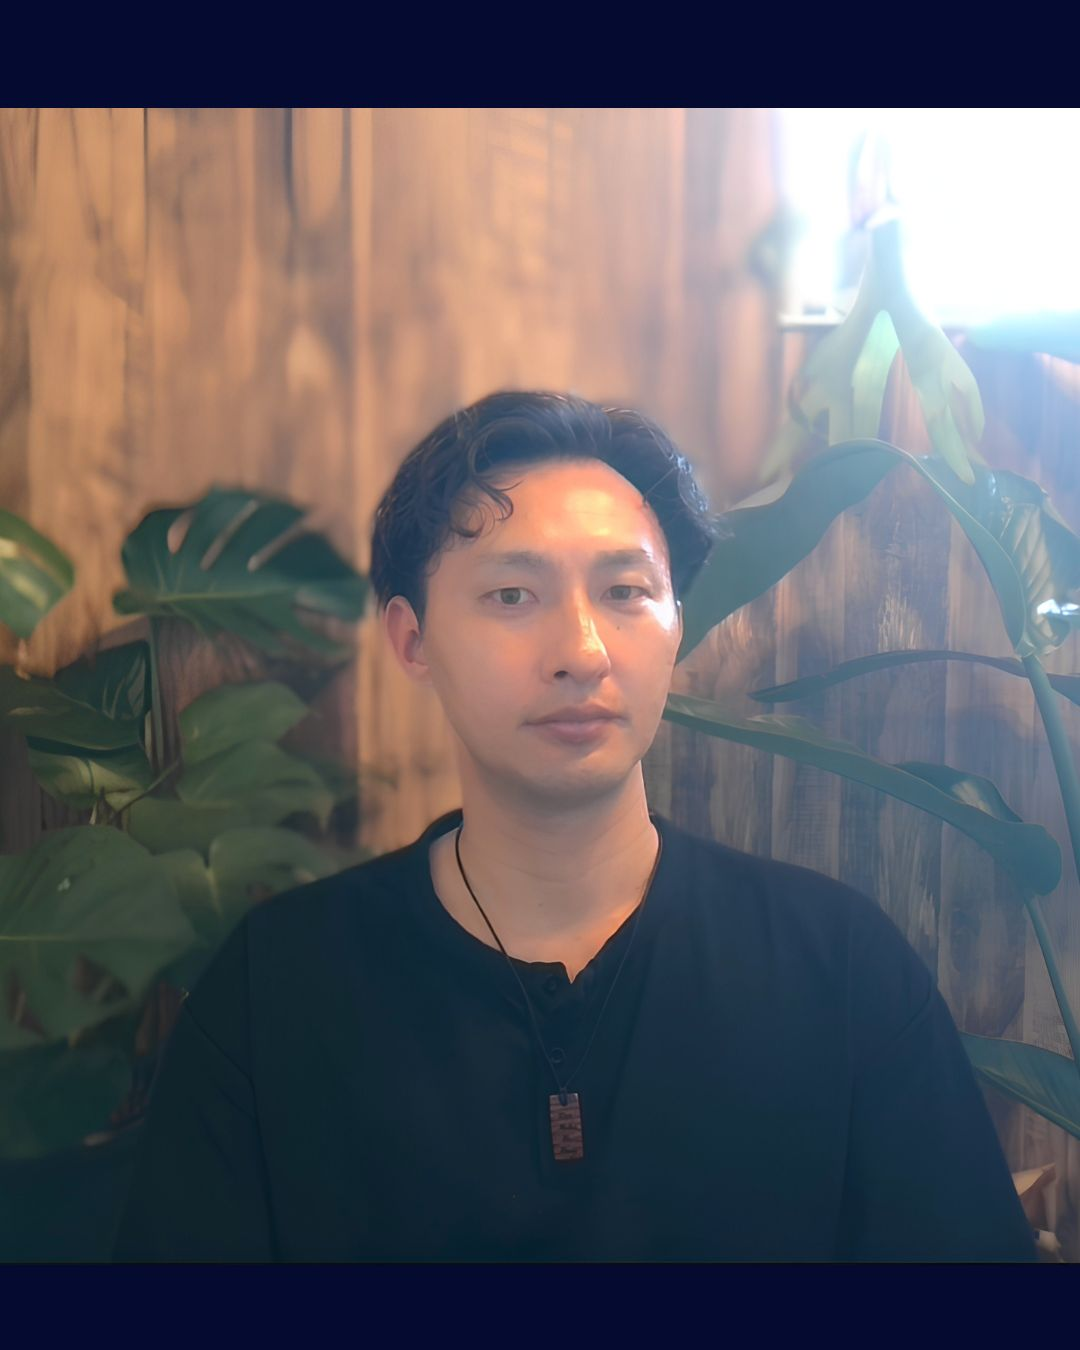
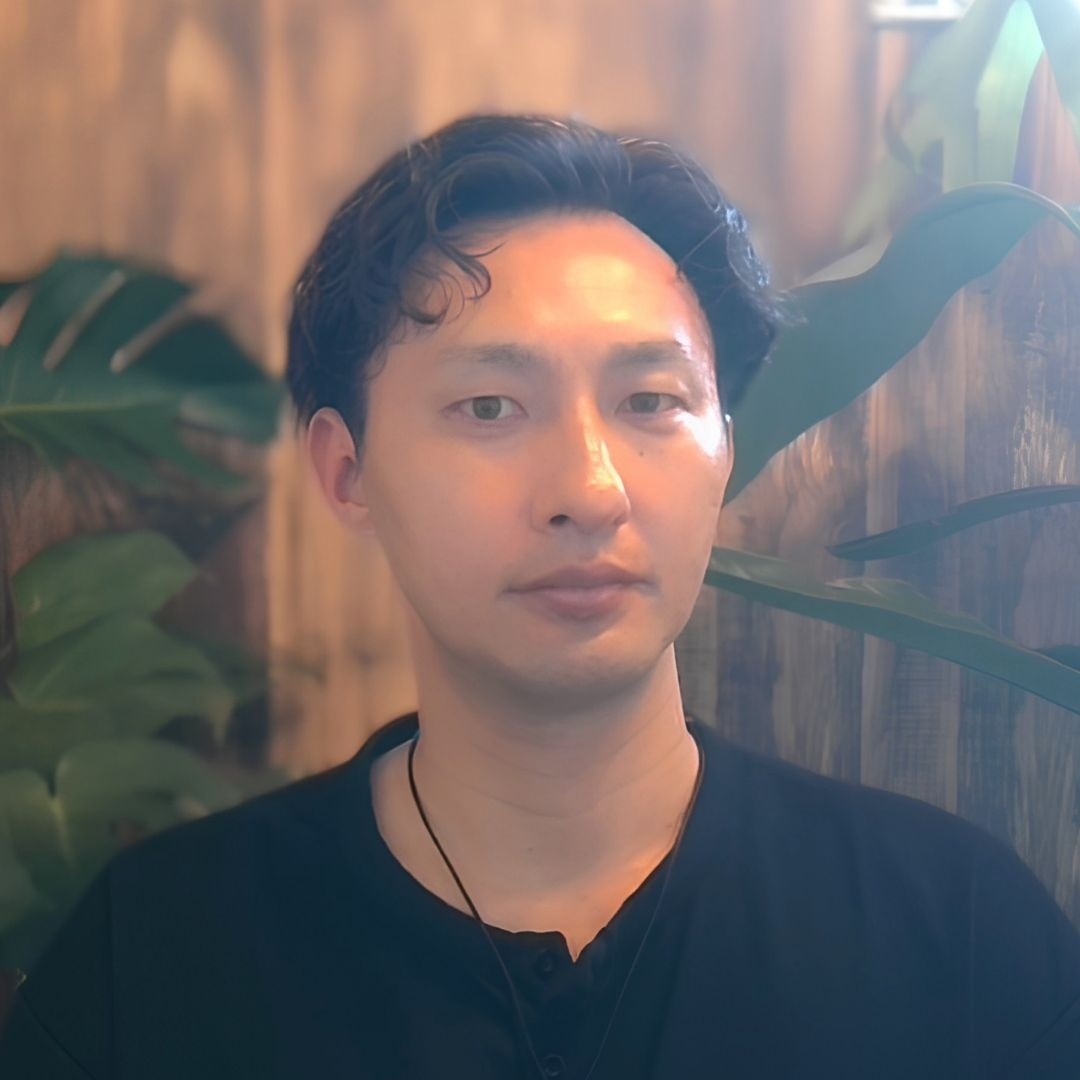
プロフィール画像：正方形クロップで丸枠にぴったり表示

diff --git a/style.css b/style.css
@@ -541,7 +541,7 @@ input, textarea, select, button,
   box-shadow: 0 12px 44px rgba(26,80,98,.2);
   border: 3px solid rgba(196,180,156,.5);
 }
-.avatar-portrait { width: 100%; height: 100%; object-fit: cover; object-position: center top; display: block; }
+.avatar-portrait { width: 100%; height: 100%; object-fit: cover; object-position: center center; display: block; }
 
 .profile-name { font-family: var(--font-serif); font-size: 1.25rem; font-weight: 700; color: var(--text-dark); margin-bottom: 5px; }
 .profile-kana  { font-size: .78rem; color: var(--text-light); letter-spacing: .12em; margin-bottom: 10px; font-family: var(--font-sans); }
